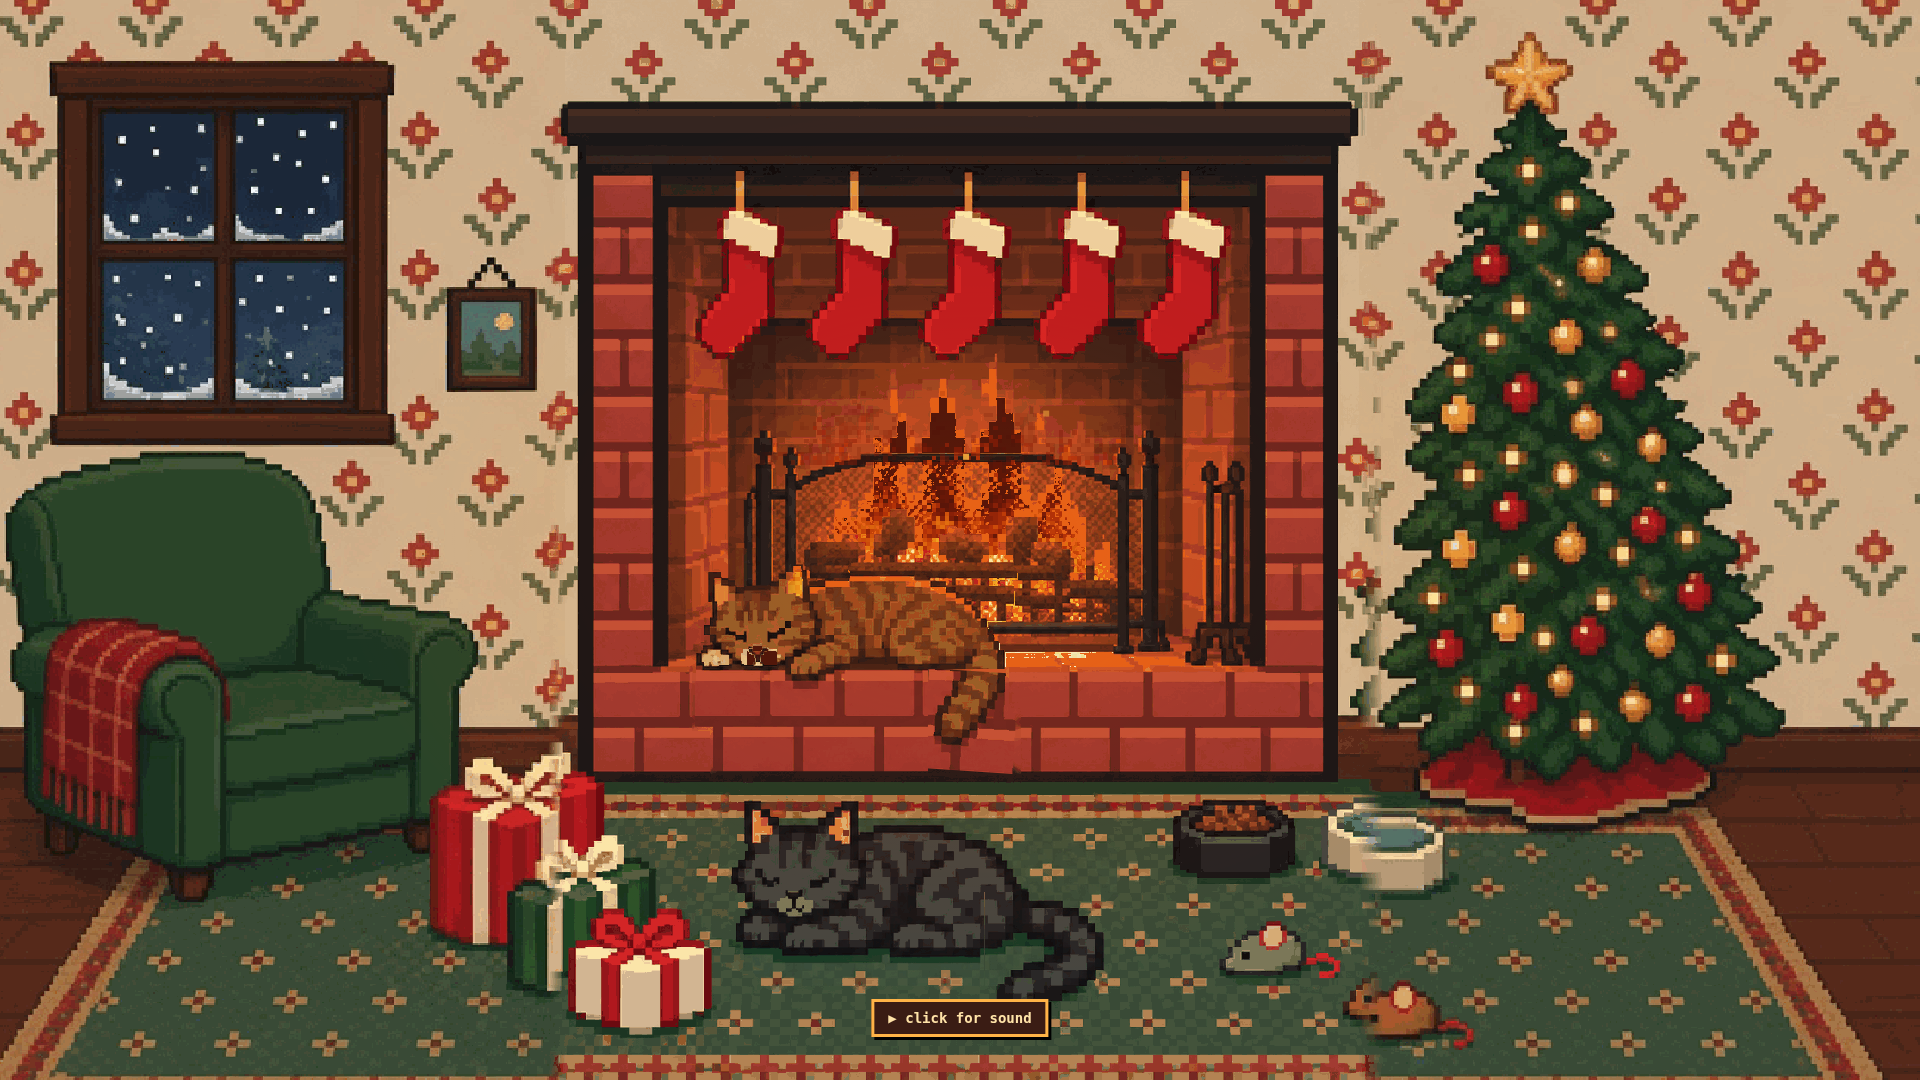
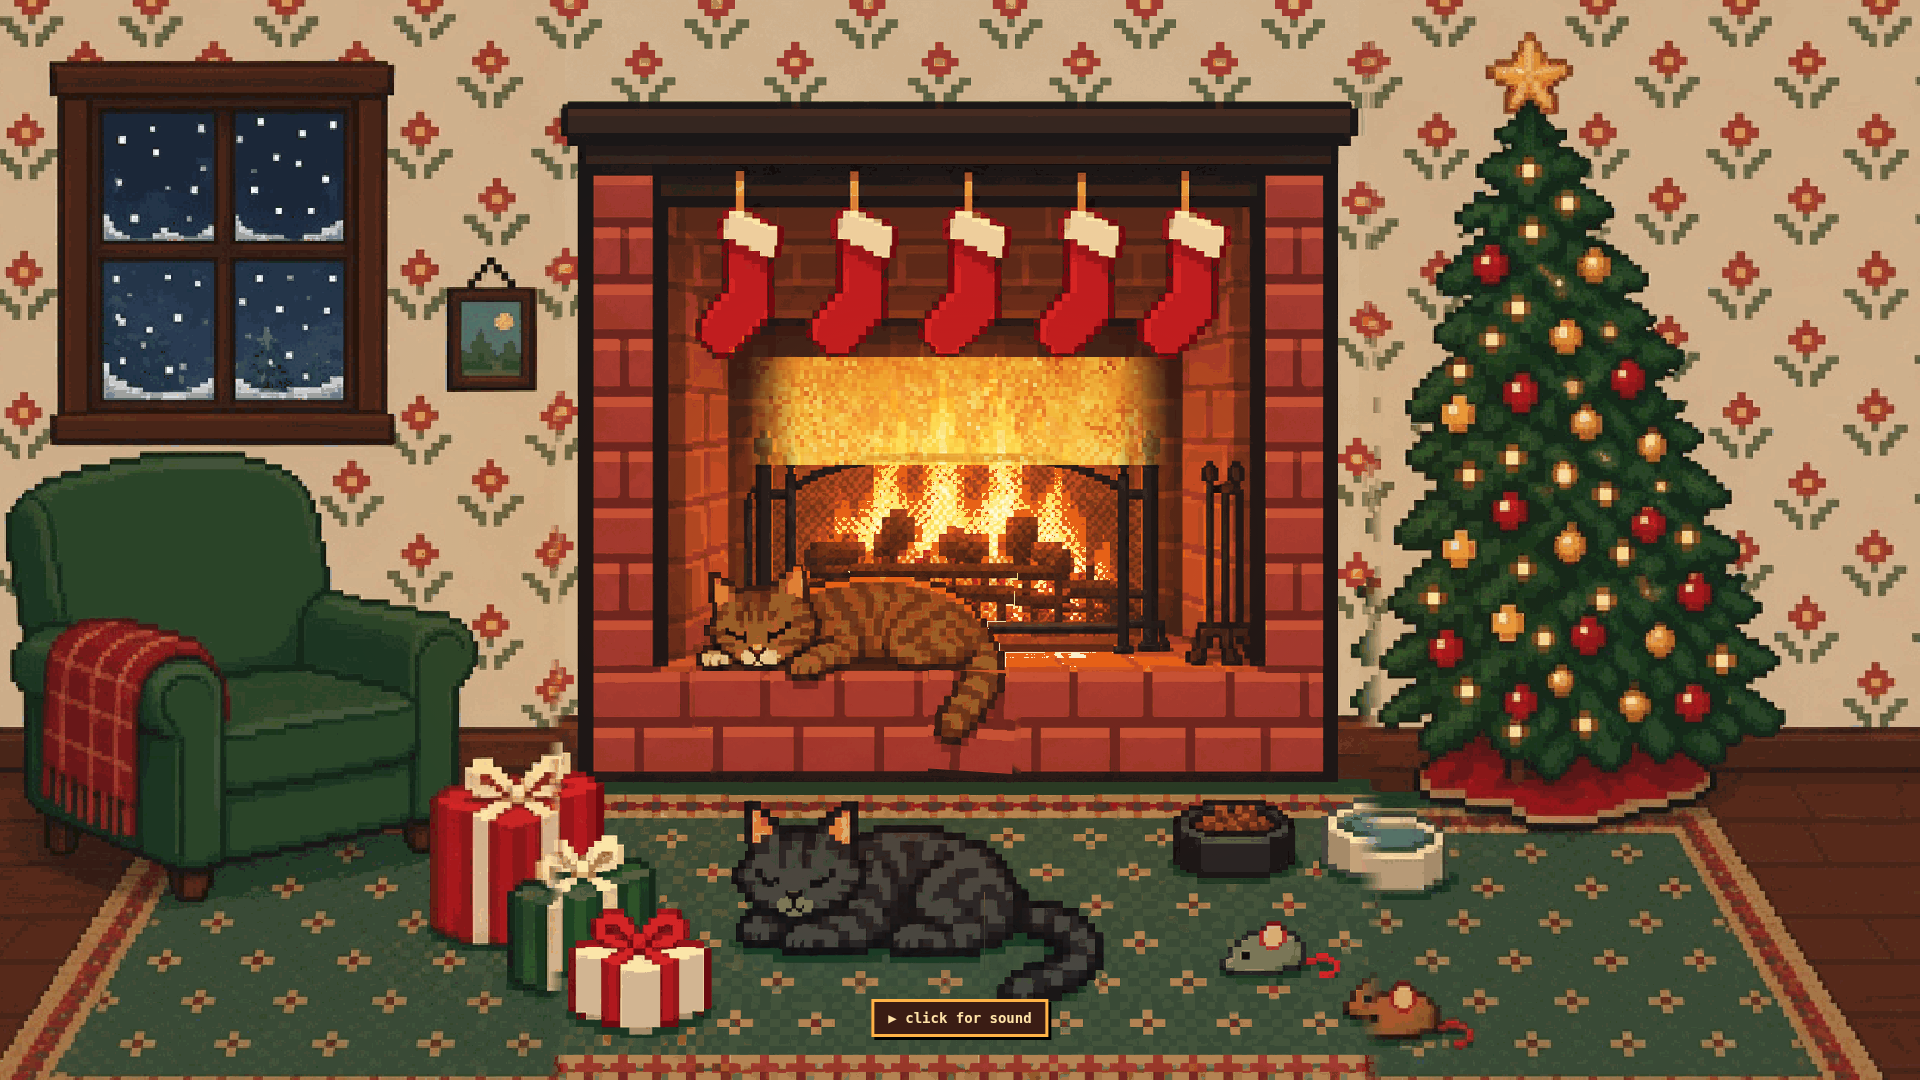
Fire: tongues, stronger decay, top fade

Changed region(s): [[0.375, 0.3056, 0.625, 0.5806], [0.375, 0.5806, 0.4062, 0.6417]]

diff --git a/index.html b/index.html
@@ -4,7 +4,7 @@ html,body{margin:0;height:100%;background:#0d0a0a;overflow:hidden}
 .s{position:absolute;left:50%;top:50%;transform:translate(-50%,-50%);width:max(100vw,177.78vh);height:max(56.25vw,100vh);background:url(bg.png) 0 0/100% 100%;image-rendering:pixelated;overflow:hidden}
 @media (max-aspect-ratio:4/3){.s{width:min(100vw,177.78vh);height:min(56.25vw,100vh)}}
 .s>*{position:absolute;pointer-events:none;image-rendering:pixelated}
-#fire{left:38.896%;top:33.094%;width:21.983%;height:28.708%;opacity:.9;mix-blend-mode:screen;-webkit-mask-image:linear-gradient(90deg,transparent,#000 12%,#000 88%,transparent);mask-image:linear-gradient(90deg,transparent,#000 12%,#000 88%,transparent)}
+#fire{left:38.896%;top:33.094%;width:21.983%;height:28.708%;opacity:.9;mix-blend-mode:screen;--m:linear-gradient(90deg,transparent,#000 12%,#000 88%,transparent),linear-gradient(transparent 0,transparent 15%,#000 65%);-webkit-mask-image:var(--m);mask-image:var(--m);-webkit-mask-composite:source-in;mask-composite:intersect}
 .front{z-index:2}.ttail,.tbody,.ktail,.kbody,.khead{z-index:3}
 .front{left:38.896%;top:43.062%;width:21.983%;height:18.740%;transform-origin:50% 100%;animation:none}
 .ttail{left:48.362%;top:62.121%;width:4.666%;height:9.250%;transform-origin:47.1% 0.9%;animation:sway 7s ease-in-out infinite}
@@ -38,7 +38,7 @@ const st=[[40,8,4],[90,16,6],[140,30,8],[180,50,10],[210,80,14],[235,115,20],[24
 for(let i=1;i<37;i++){const f=i/36*(st.length-1),a=Math.floor(f),b=Math.min(a+1,st.length-1),t=f-a;P.push([0,1,2].map(k=>st[a][k]+(st[b][k]-st[a][k])*t).concat([Math.min(255,i*22)]))}
 const F=new Uint8Array(w*h);for(let i=0;i<w;i++){const d=Math.abs(i-w/2)/(w/2);F[(h-1)*w+i]=d<.9?36:30}
 const img=x.createImageData(w,h),g=document.getElementById('glow'),rm=matchMedia('(prefers-reduced-motion: reduce)').matches;let last=0;
-function step(){for(let X=0;X<w;X++)for(let Y=1;Y<h;Y++){const s=Y*w+X,p=F[s];if(!p){F[s-w]=0;continue}const r=Math.random()*3.4|0,d=s-r+1;F[Math.max(0,d-w)]=Math.max(0,p-(r&1)*(Math.random()<.7?1:0))}
+function step(){for(let X=0;X<w;X++)for(let Y=1;Y<h;Y++){const s=Y*w+X,p=F[s];if(!p){F[s-w]=0;continue}const r=Math.random()*3.4|0,d=s-r+1;F[Math.max(0,d-w)]=Math.max(0,p-(Math.random()<.55?1:0)-(Math.random()<(1-Y/h)*.9?1:0)-(Math.random()<.04?3:0))}
 for(let i=0;i<w*h;i++){const q=P[F[i]];img.data.set(q,i*4)}x.putImageData(img,0,0)}
 function loop(t){if(t-last>33){last=t;step();g.style.opacity=.75+Math.random()*.25}requestAnimationFrame(loop)}
 for(let i=0;i<40;i++)step();if(!rm)requestAnimationFrame(loop);else step()})();
